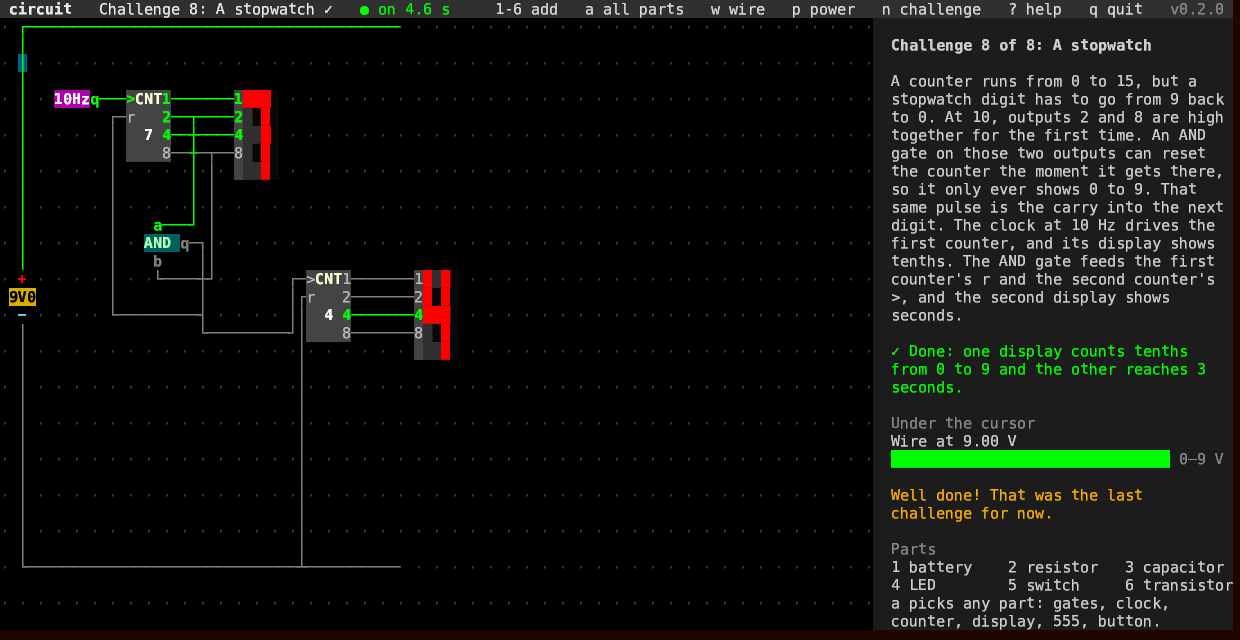
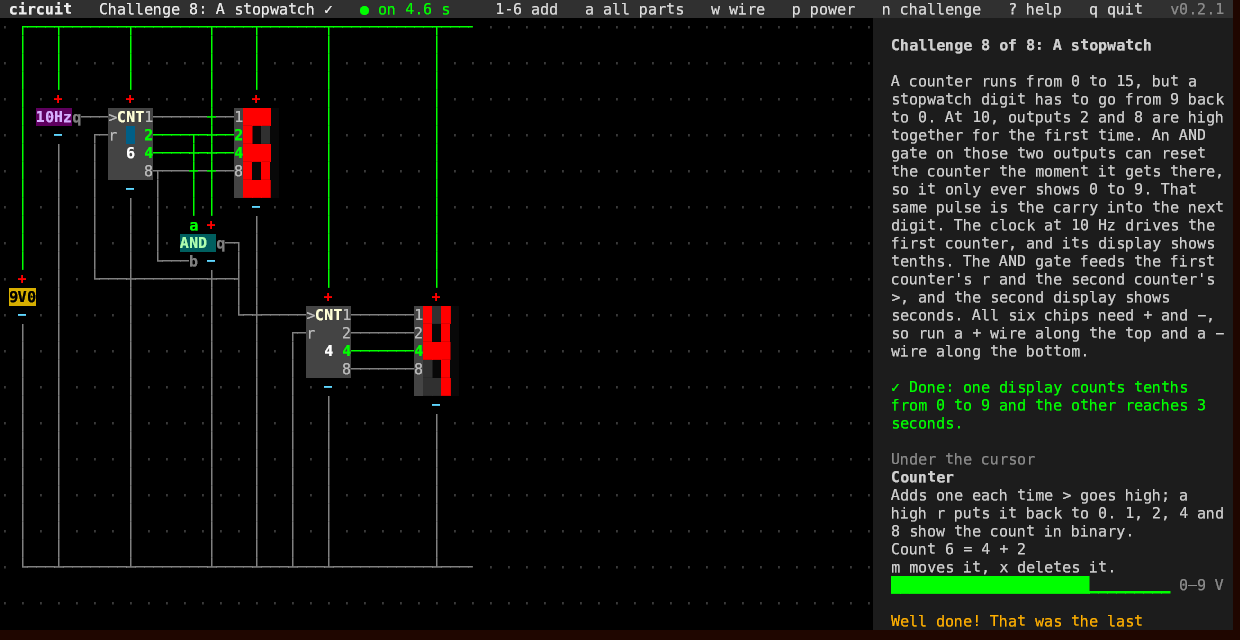
The right pane names what the cursor is on, down to the pin (v0.2.2)

diff --git a/src/main.rs b/src/main.rs
@@ -700,7 +700,9 @@ impl App {
         }
         l.push(String::new());
         l.push(style::fg("Under the cursor", 245));
-        for d in self.describe() { l.extend(wrap(&d, w)); }
+        let (what, lines) = self.describe();
+        l.extend(wrap(&what, w).iter().map(|t| style::bold(t)));
+        for d in lines { l.extend(wrap(&d, w)); }
         if self.power && self.trace.len() > 1 {
             let vmax = self.vmax();
             const TICKS: [char; 8] = ['▁', '▂', '▃', '▄', '▅', '▆', '▇', '█'];
@@ -722,20 +724,21 @@ impl App {
         l.iter().map(|s| format!("  {s}")).collect::<Vec<_>>().join("\n")
     }
 
-    /// Plain lines about whatever is under the cursor.
-    fn describe(&self) -> Vec<String> {
+    /// What is under the cursor, and plain lines about it.
+    fn describe(&self) -> (String, Vec<String>) {
         let sim = self.sim.as_ref().filter(|_| self.power);
         let Some(i) = self.board.part_at(self.cur) else {
-            return match (self.board.cells.get(&self.cur), sim, self.net.node_of.get(&self.cur)) {
-                (Some(Cell::Wire(m)), _, _) if board::crossing(*m) => vec!["Two wires cross here without touching. . joins them.".into()],
-                (Some(Cell::Wire(m)), _, _) if *m & 15 == 15 => vec!["Four wires joined here. . separates them.".into()],
-                (Some(Cell::Wire(_)), Some(s), Some(&n)) => vec![format!("Wire at {}", volts(s.v[n]))],
-                (Some(Cell::Wire(_)), _, _) => vec!["Wire. x deletes it.".into()],
-                _ if self.pen => vec!["Move to draw a wire. w or Esc stops.".into()],
-                _ => vec!["Empty. Press 1 to 6 or a to add a part here, or w to draw a wire.".into()],
+            let (what, line) = match (self.board.cells.get(&self.cur), sim, self.net.node_of.get(&self.cur)) {
+                (Some(Cell::Wire(m)), _, _) if board::crossing(*m) => ("Crossing wires", "They do not touch. . joins them.".into()),
+                (Some(Cell::Wire(m)), _, _) if *m & 15 == 15 => ("Joined wires", ". separates them.".into()),
+                (Some(Cell::Wire(_)), Some(s), Some(&n)) => ("Wire", format!("At {}", volts(s.v[n]))),
+                (Some(Cell::Wire(_)), _, _) => ("Wire", "x deletes it.".into()),
+                _ if self.pen => ("Empty", "Move to draw a wire. w or Esc stops.".into()),
+                _ => ("Empty", "Press 1 to 6 or a to add a part here, or w to draw a wire.".into()),
             };
+            return (what.into(), vec![line]);
         };
-        let Some(p) = self.board.part(i) else { return vec![] };
+        let Some(p) = self.board.part(i) else { return (String::new(), vec![]) };
         let d = self.net.part_dev[i];
         let node = |c: &(i32, i32)| self.net.node_of.get(c).copied();
         let pins = p.pins();
@@ -744,14 +747,23 @@ impl App {
             _ => 0.0,
         };
         let mut out = Vec::new();
+        let mut what = match p.kind {
+            Kind::Battery | Kind::Resistor | Kind::Capacitor | Kind::Clock => format!("{}, {}", cap(p.kind.name()), board::pretty(p.kind, p.value)),
+            Kind::Led => format!("{} LED", match p.color { LedColor::Red => "Red", LedColor::Green => "Green", LedColor::Yellow => "Yellow", LedColor::Blue => "Blue" }),
+            Kind::Switch => format!("Switch, {}", if p.closed { "closed" } else { "open" }),
+            Kind::Npn => "NPN transistor".into(),
+            kind => cap(kind.name()),
+        };
+        if let Some(Cell::Pin(_, k, _)) = self.board.cells.get(&self.cur) {
+            if let Some(pin) = pin_name(p.kind, *k) { what = format!("{what}, {pin}"); }
+        }
         match p.kind {
             Kind::Battery => {
-                out.push(format!("Battery, {}. + is red, − is blue.", board::pretty(p.kind, p.value)));
+                out.push("+ is red, − is blue.".into());
                 if let (Some(s), Some(d)) = (sim, d) { out.push(format!("Giving {}", amps(s.current[d]))); }
                 out.push("+ and − change the voltage.".into());
             }
             Kind::Resistor | Kind::Capacitor => {
-                out.push(format!("{}, {}", cap(p.kind.name()), board::pretty(p.kind, p.value)));
                 if let (Some(s), Some(d)) = (sim, d) {
                     let v = across(s);
                     let i = s.current[d];
@@ -765,8 +777,7 @@ impl App {
                 out.push("+ and − change the value.".into());
             }
             Kind::Led => {
-                let color = match p.color { LedColor::Red => "Red", LedColor::Green => "Green", LedColor::Yellow => "Yellow", LedColor::Blue => "Blue" };
-                out.push(format!("{color} LED. Current flows from the arrow side to the bar side."));
+                out.push("Current flows from the arrow side to the bar side.".into());
                 if p.burnt {
                     out.push("Burnt out. r puts in a new one.".into());
                 } else if let (Some(s), Some(d)) = (sim, d) {
@@ -775,29 +786,29 @@ impl App {
                 out.push("+ and − change the colour.".into());
             }
             Kind::Switch => {
-                out.push(format!("Switch, {}. Space flips it.", if p.closed { "closed" } else { "open" }));
+                out.push("Space flips it.".into());
                 if let (Some(s), Some(d)) = (sim, d) { out.push(format!("Carrying {}", amps(s.current[d]))); }
             }
             Kind::Npn => {
-                out.push("NPN transistor: collector c, base b, emitter e.".into());
+                out.push("Collector c, base b, emitter e.".into());
                 if let (Some(s), Some(d)) = (sim, d) {
                     out.push(format!("Collector {}, base {}", amps(s.current[d]), amps(s.base[d])));
                 }
             }
             Kind::Button => {
-                out.push("Button: Space presses it for a moment.".into());
+                out.push("Space presses it for a moment.".into());
                 if let (Some(s), Some(d)) = (sim, d) { out.push(format!("Carrying {}", amps(s.current[d]))); }
             }
             kind @ (Kind::Not | Kind::And | Kind::Or | Kind::Nand | Kind::Nor | Kind::Xor) => {
                 let rule = match kind {
-                    Kind::Not => "q is high when a is low",
-                    Kind::And => "q is high only when a and b are both high",
-                    Kind::Or => "q is high when a or b is high",
-                    Kind::Nand => "q is low only when a and b are both high",
-                    Kind::Nor => "q is low when a or b is high",
-                    _ => "q is high when a and b differ",
+                    Kind::Not => "q is high when a is low.",
+                    Kind::And => "q is high only when a and b are both high.",
+                    Kind::Or => "q is high when a or b is high.",
+                    Kind::Nand => "q is low only when a and b are both high.",
+                    Kind::Nor => "q is low when a or b is high.",
+                    _ => "q is high when a and b differ.",
                 };
-                out.push(format!("{}: {rule}.", kind.name()));
+                out.push(rule.into());
                 if let Some(l) = self.logic_of(i) {
                     let hl = |b: bool| if b { "high" } else { "low" };
                     out.push(if kind == Kind::Not {
@@ -808,19 +819,19 @@ impl App {
                 }
             }
             Kind::Clock => {
-                out.push(format!("Clock, {}: q goes high and low by itself.", board::pretty(p.kind, p.value)));
+                out.push("q goes high and low by itself.".into());
                 out.push("+ and − change the speed.".into());
             }
             Kind::Counter => {
-                out.push("Counter: adds one each time > goes high; a high r puts it back to 0. 1, 2, 4 and 8 show the count in binary.".into());
+                out.push("Adds one each time > goes high; a high r puts it back to 0. 1, 2, 4 and 8 show the count in binary.".into());
                 if let Some(l) = self.logic_of(i) { out.push(format!("Count {} = {}", l.value, binary_sum(l.value))); }
             }
             Kind::Display => {
-                out.push("Display: shows the digit its inputs 1, 2, 4 and 8 add up to, 0 to F.".into());
+                out.push("Shows the digit its inputs 1, 2, 4 and 8 add up to, 0 to F.".into());
                 if let Some(l) = self.logic_of(i) { out.push(format!("Showing {:X} = {}", l.value, binary_sum(l.value))); }
             }
             Kind::Timer => {
-                out.push("555 timer: o goes high when t drops below a third of its supply, and low when h rises above two thirds. While o is low, d pulls down.".into());
+                out.push("o goes high when t drops below a third of its supply, and low when h rises above two thirds. While o is low, d pulls down.".into());
                 if let Some(l) = self.logic_of(i) { out.push(format!("o {}", if l.out[0] { "high" } else { "low" })); }
             }
         }
@@ -828,7 +839,7 @@ impl App {
             out.push("No power: wire + to the battery's + and − to its −.".into());
         }
         out.push(if p.kind.is_chip() { "m moves it, x deletes it." } else { "o turns it, m moves it, x deletes it." }.into());
-        out
+        (what, out)
     }
 }
 
@@ -900,6 +911,27 @@ fn amps(i: f64) -> String {
 
 fn watts_str(w: f64) -> String {
     if w.abs() >= 1.0 { format!("{:.2} W", w) } else { format!("{:.0} mW", w * 1e3) }
+}
+
+/// The name of pin `k`, for the parts whose pins have one.
+fn pin_name(kind: Kind, k: usize) -> Option<String> {
+    if let Some(plus) = kind.power_pin() {
+        if k == plus { return Some("pin +".into()); }
+        if k == plus + 1 { return Some("pin −".into()); }
+    }
+    let name = match kind {
+        Kind::Battery => ["+", "−"].get(k)?,
+        Kind::Led => return ["arrow side", "bar side"].get(k).map(|s| s.to_string()),
+        Kind::Npn => return ["collector", "base", "emitter"].get(k).map(|s| s.to_string()),
+        Kind::Not => ["a", "q"].get(k)?,
+        Kind::Clock => ["q"].get(k)?,
+        Kind::Counter => [">", "r", "1", "2", "4", "8"].get(k)?,
+        Kind::Display => ["1", "2", "4", "8"].get(k)?,
+        Kind::Timer => ["t", "h", "d", "o"].get(k)?,
+        kind if kind.gate().is_some() => ["a", "b", "q"].get(k)?,
+        _ => return None,
+    };
+    Some(format!("pin {name}"))
 }
 
 fn cap(s: &str) -> String {

diff --git a/README.md b/README.md
@@ -15,6 +15,9 @@ with voltage, LEDs light up with their current, and an LED with no
 resistor burns out. Challenges teach one idea at a time, and each one
 ticks itself off when your circuit works.
 
+The panel on the right names what the cursor is on, down to the pin, and
+what it is doing.
+
 Part of the [Fe₂O₃ suite](https://isene.github.io/fe2o3/). Built on
 [crust](https://github.com/isene/crust).
 
